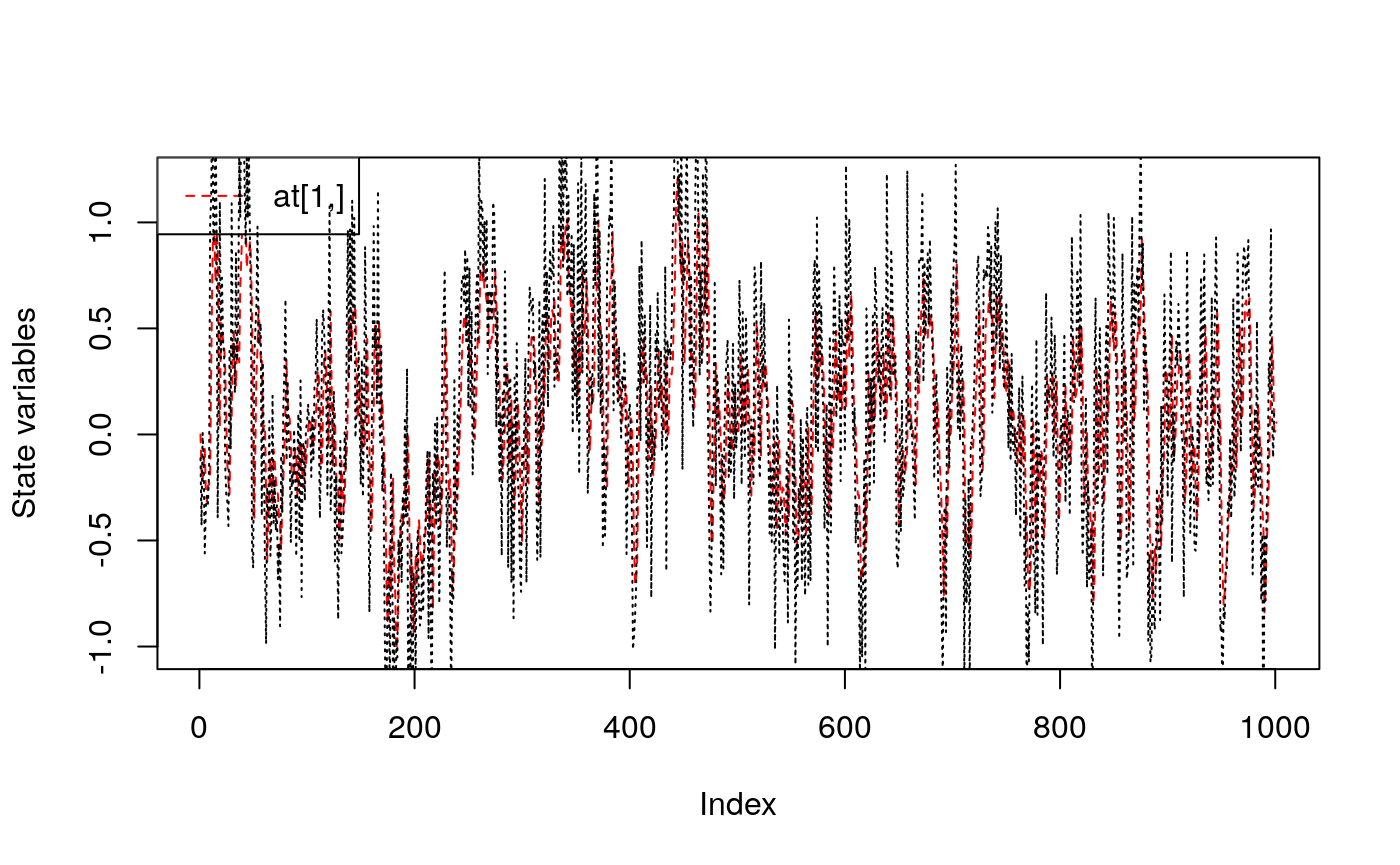
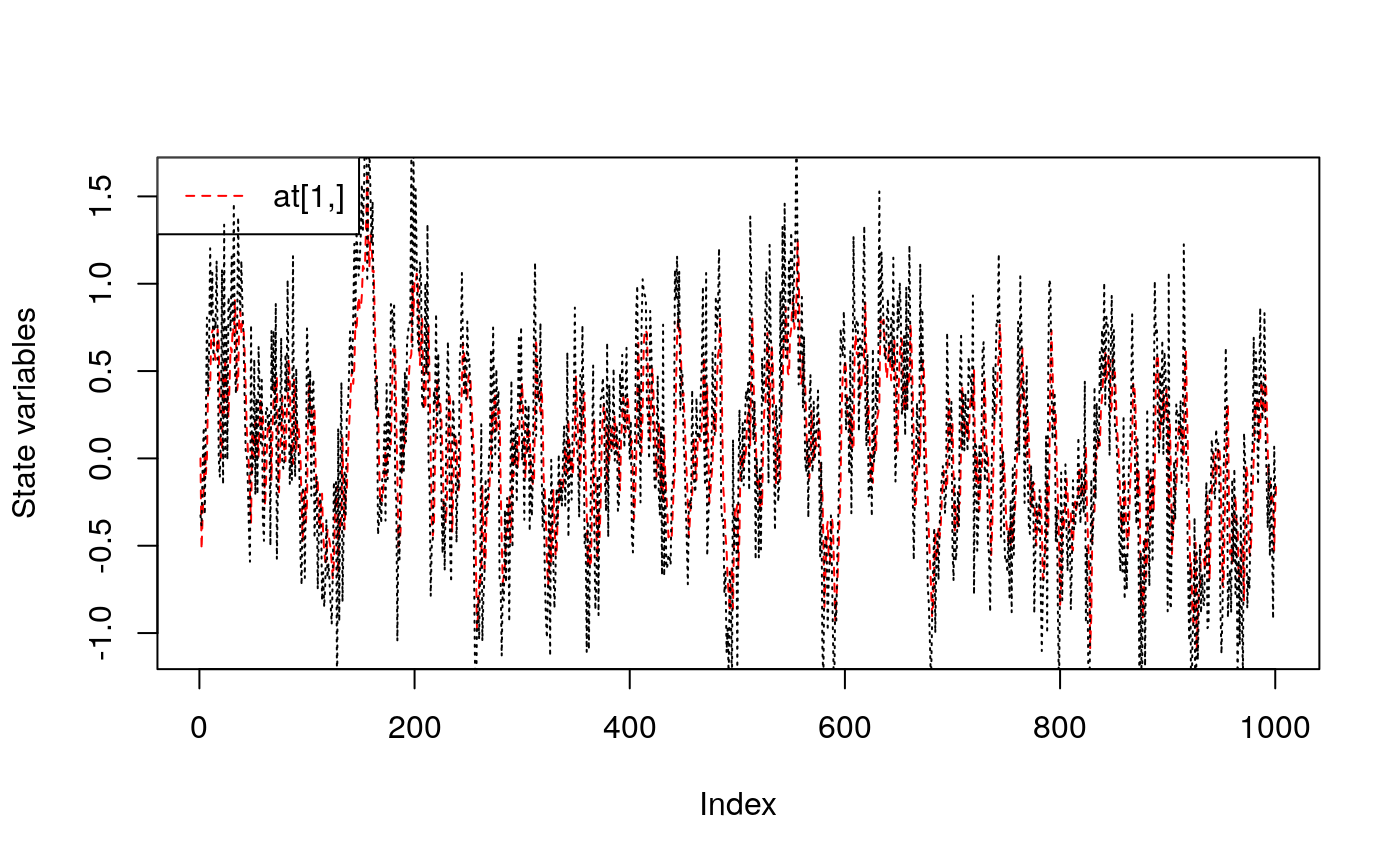
Last build of v0.16 before submission

diff --git a/docs/articles/FKF.html b/docs/articles/FKF.html
@@ -127,14 +127,14 @@
 <span class="no">fit</span>
 <span class="co">#&gt; $par</span>
 <span class="co">#&gt;        ar1        ar2        ma1      sigma </span>
-<span class="co">#&gt;  0.5137342  0.2630907 -0.1112931  0.4549188 </span>
+<span class="co">#&gt;  0.6003460  0.2152655 -0.1828381  0.4545893 </span>
 <span class="co">#&gt; </span>
 <span class="co">#&gt; $value</span>
-<span class="co">#&gt; [1] 638.5717</span>
+<span class="co">#&gt; [1] 638.3345</span>
 <span class="co">#&gt; </span>
 <span class="co">#&gt; $counts</span>
 <span class="co">#&gt; function gradient </span>
-<span class="co">#&gt;      413       NA </span>
+<span class="co">#&gt;      459       NA </span>
 <span class="co">#&gt; </span>
 <span class="co">#&gt; $convergence</span>
 <span class="co">#&gt; [1] 0</span>
@@ -143,17 +143,17 @@
 <span class="co">#&gt; NULL</span>
 <span class="co">#&gt; </span>
 <span class="co">#&gt; $hessian</span>
-<span class="co">#&gt;                ar1          ar2          ma1         sigma</span>
-<span class="co">#&gt; ar1   2089.4722049 1.456714e+03 1063.5313212   -0.13385173</span>
-<span class="co">#&gt; ar2   1456.7137525 2.089435e+03  118.3780556    0.02349773</span>
-<span class="co">#&gt; ma1   1063.5313212 1.183781e+02 1001.4570801   -0.24134968</span>
-<span class="co">#&gt; sigma   -0.1338517 2.349773e-02   -0.2413497 9657.02208950</span></pre></body></html></div>
+<span class="co">#&gt;               ar1         ar2          ma1        sigma</span>
+<span class="co">#&gt; ar1   2536.401385 1942.245141 1134.7943326    3.4585628</span>
+<span class="co">#&gt; ar2   1942.245141 2536.336121  212.2483388    3.7383349</span>
+<span class="co">#&gt; ma1   1134.794333  212.248339 1056.0706567    0.9922729</span>
+<span class="co">#&gt; sigma    3.458563    3.738335    0.9922729 9685.1568918</span></pre></body></html></div>
 <div class="sourceCode" id="cb6"><html><body><pre class="r"><span class="co">## Confidence intervals</span>
 <span class="fu"><a href="https://rdrr.io/r/base/cbind.html">rbind</a></span>(<span class="no">fit</span>$<span class="no">par</span> - <span class="fu"><a href="https://rdrr.io/r/stats/Normal.html">qnorm</a></span>(<span class="fl">0.975</span>) * <span class="fu"><a href="https://rdrr.io/r/base/MathFun.html">sqrt</a></span>(<span class="fu"><a href="https://rdrr.io/r/base/diag.html">diag</a></span>(<span class="fu"><a href="https://rdrr.io/r/base/solve.html">solve</a></span>(<span class="no">fit</span>$<span class="no">hessian</span>))),
       <span class="no">fit</span>$<span class="no">par</span> + <span class="fu"><a href="https://rdrr.io/r/stats/Normal.html">qnorm</a></span>(<span class="fl">0.975</span>) * <span class="fu"><a href="https://rdrr.io/r/base/MathFun.html">sqrt</a></span>(<span class="fu"><a href="https://rdrr.io/r/base/diag.html">diag</a></span>(<span class="fu"><a href="https://rdrr.io/r/base/solve.html">solve</a></span>(<span class="no">fit</span>$<span class="no">hessian</span>))))
-<span class="co">#&gt;            ar1       ar2         ma1     sigma</span>
-<span class="co">#&gt; [1,] 0.3237587 0.1338848 -0.30868008 0.4349742</span>
-<span class="co">#&gt; [2,] 0.7037098 0.3922966  0.08609385 0.4748635</span>
+<span class="co">#&gt;            ar1        ar2         ma1     sigma</span>
+<span class="co">#&gt; [1,] 0.4339107 0.09431138 -0.35013547 0.4346736</span>
+<span class="co">#&gt; [2,] 0.7667814 0.33621966 -0.01554074 0.4745050</span>
 
 <span class="co">## Filter the series with estimated parameter values</span>
 <span class="no">sp</span> <span class="kw">&lt;-</span> <span class="fu">arma21ss</span>(<span class="no">fit</span>$<span class="no">par</span>[<span class="st">"ar1"</span>], <span class="no">fit</span>$<span class="no">par</span>[<span class="st">"ar2"</span>], <span class="no">fit</span>$<span class="no">par</span>[<span class="st">"ma1"</span>], <span class="no">fit</span>$<span class="no">par</span>[<span class="st">"sigma"</span>])
